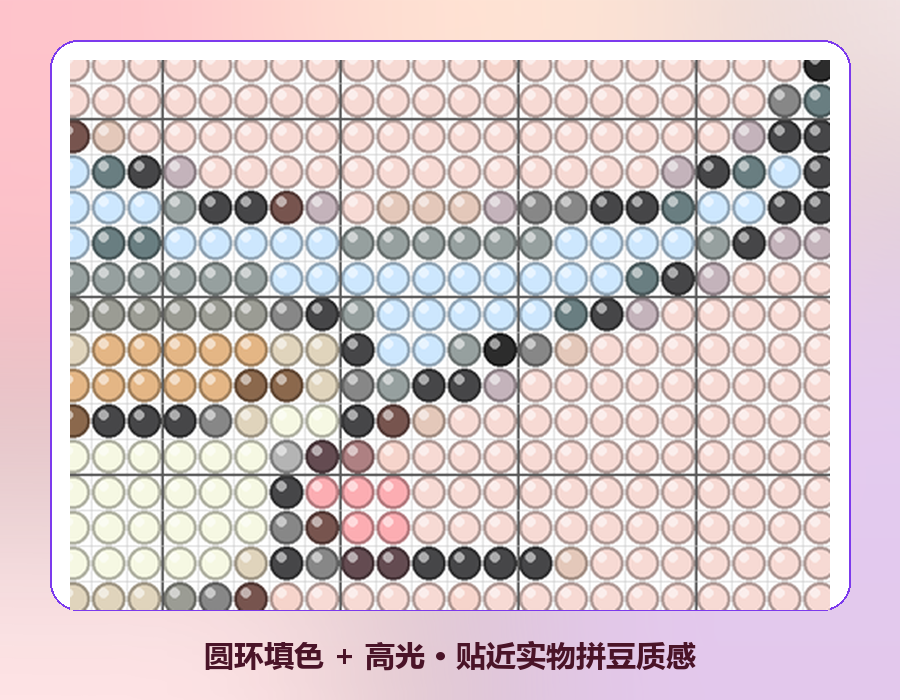
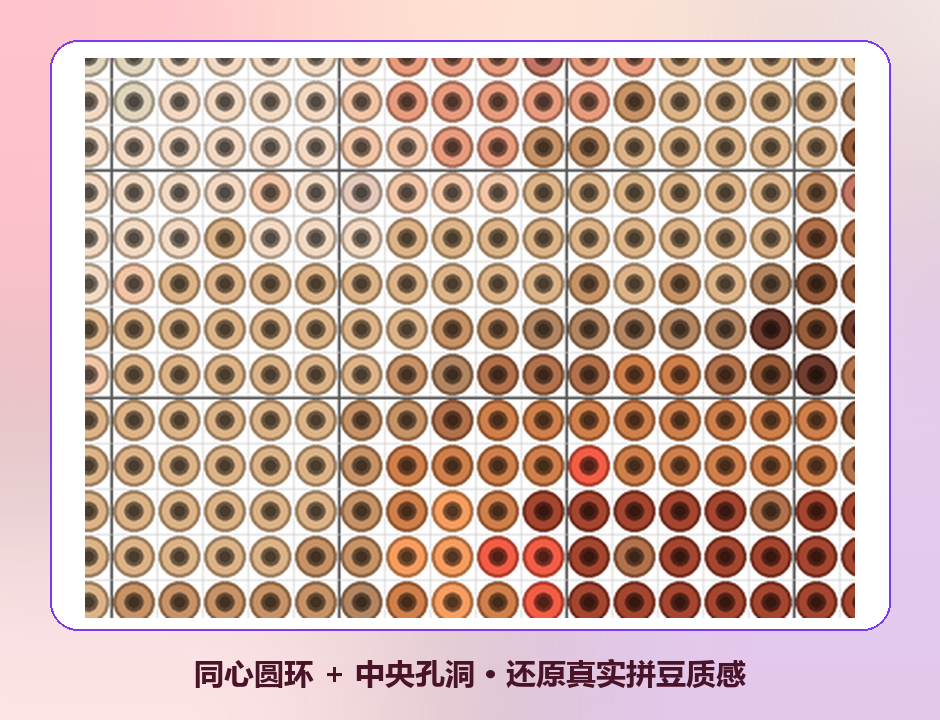
fix: 真实豆子改为同心圆环+中央孔洞，修正手机整屏渲染圆角
- 真实豆子风格由「围棋样实心圆+左上高光」改为「同心圆环+中央孔洞」，
  还原拼豆材料中央穿孔质感（外圈压暗描边 + 豆体圆环 + 孔洞内阴影），
  桌面 _draw_bead 与移动 _drawBead 双端同步重写
- README 渲染图改用给定盐津布虾素材重新生成；手机整屏合成图屏幕圆角
  改为与外框圆角平行同心（scr_R = body_R - bezel），屏幕不再顶到边缘
- 统一文案：README/CHANGELOG/index.html tooltip/state 注释中
  「圆环填色+高光」→「同心圆环+中央孔洞」

diff --git a/perler_app/lib/ui/canvas/chart_painter.dart b/perler_app/lib/ui/canvas/chart_painter.dart
@@ -14,8 +14,8 @@ class ChartPainter {
   static const double _maskFade = 0.70; // 对应桌面 MASK_FADE
   static const int _majorEvery = 5;
 
-  /// 画一颗豆子（对应桌面 _draw_bead）。real=圆环填色的真实拼豆（外圈描边+
-  /// 内圆+左上高光）；square=经典实心方格。
+  /// 画一颗豆子（对应桌面 _draw_bead）。real=真实拼豆（同心圆环 + 中央孔洞，
+  /// 还原材料穿孔）；square=经典实心方格。
   static void _drawBead(Canvas canvas, double x1, double y1, double cell,
       Color rgb, String style) {
     if (style != 'real') {
@@ -24,17 +24,18 @@ class ChartPainter {
     }
     final cx = x1 + cell / 2, cy = y1 + cell / 2;
     final r = cell * 0.46;
-    // 外圈描边（压暗一档）做立体边缘
-    final edge = Color.fromARGB(255, (rgb.red * 0.72).round(),
-        (rgb.green * 0.72).round(), (rgb.blue * 0.72).round());
-    canvas.drawCircle(Offset(cx, cy), r, Paint()..color = edge);
-    // 内圆填豆色
+    Color scale(double f) => Color.fromARGB(255, (rgb.red * f).round(),
+        (rgb.green * f).round(), (rgb.blue * f).round());
+    // 1) 外圈描边（压暗一档）做立体边缘
+    canvas.drawCircle(Offset(cx, cy), r, Paint()..color = scale(0.72));
+    // 2) 豆体圆环：向内一圈填豆色（外缘到孔洞之间的环带）
     canvas.drawCircle(Offset(cx, cy), r * 0.82, Paint()..color = rgb);
-    // 左上半透明白高光（向白混 55% 近似半透明）；cell 够大才画
+    // 3) 中央孔洞：拼豆材料的穿孔，压暗作内阴影
+    final hr = r * 0.42;
+    canvas.drawCircle(Offset(cx, cy), hr, Paint()..color = scale(0.50));
+    // 4) 孔洞内壁一圈更浅的过渡，让孔洞有纵深感（cell 够大才画）
     if (cell >= 8) {
-      final hl = Color.lerp(rgb, const Color(0xFFFFFFFF), 0.55)!;
-      canvas.drawCircle(Offset(cx - r * 0.32, cy - r * 0.36), r * 0.30,
-          Paint()..color = hl);
+      canvas.drawCircle(Offset(cx, cy), hr * 0.62, Paint()..color = scale(0.34));
     }
   }
 
@@ -57,7 +58,7 @@ class ChartPainter {
     String? brand,          // 品牌标签（左上角信息行）
     int colorCount = 0,     // 用到的颜色数
     int totalBeads = 0,     // 总豆数
-    String beadStyle = 'real', // real=真实豆子(圆环填色) | square=经典方格
+    String beadStyle = 'real', // real=真实豆子(同心圆环+中央孔洞) | square=经典方格
   }) {
     final codeToColor = {for (final c in palette.colors) c.code: c};
     Color codeRgb(String code, int fallback) {

diff --git a/src/webapp/static/index.html b/src/webapp/static/index.html
@@ -121,8 +121,8 @@
               </select>
             </div>
             <div class="num-row"><label>豆子风格</label>
-              <select class="sel" id="beadStyle" data-tip="图纸豆子的绘制风格：真实豆子=圆环填色+高光，贴近实物拼豆质感（默认，豆内不印色号，色号/数量在下方 BOM）；经典方格=实心方格+每格印色号。">
-                <option value="real" selected data-tip="圆环填色+高光的真实拼豆质感，色号在下方 BOM 区（默认）">真实豆子</option>
+              <select class="sel" id="beadStyle" data-tip="图纸豆子的绘制风格：真实豆子=同心圆环+中央孔洞，还原拼豆材料穿孔质感（默认，豆内不印色号，色号/数量在下方 BOM）；经典方格=实心方格+每格印色号。">
+                <option value="real" selected data-tip="同心圆环+中央孔洞的真实拼豆质感，色号在下方 BOM 区（默认）">真实豆子</option>
                 <option value="square" data-tip="实心方格，每格印色号">经典方格</option>
               </select>
             </div>

diff --git a/perler_app/lib/state/app_state.dart b/perler_app/lib/state/app_state.dart
@@ -125,7 +125,7 @@ final showChartTitleProvider = StateProvider<bool>((_) => false);
 /// 导出页文件名输入框当前值（图纸标题来源；默认跟随源图）。
 final exportNameProvider = StateProvider<String>((_) => 'pattern');
 
-/// 图纸豆子风格：'real'=真实豆子(圆环填色) | 'square'=经典方格（默认 real）。
+/// 图纸豆子风格：'real'=真实豆子(同心圆环+中央孔洞) | 'square'=经典方格（默认 real）。
 final beadStyleProvider = StateProvider<String>((_) => 'real');
 
 /// 由文件名推标题：去路径去扩展名，占位名返回 null。

diff --git a/src/core/pattern_generator.py b/src/core/pattern_generator.py
@@ -46,30 +46,32 @@ def _bead_edge(rgb):
     return tuple(max(0, int(c * 0.72)) for c in rgb)
 
 
+def _bead_hole(rgb):
+    """真实拼豆中央孔洞色：豆色大幅压暗，模拟穿孔内的阴影。"""
+    return tuple(max(0, int(c * 0.50)) for c in rgb)
+
+
 def _draw_bead(draw, x1, y1, cell, rgb, style):
-    """画一颗豆子。style='real' 画圆环填色的真实拼豆（外圈描边+内圆+左上高光）；
+    """画一颗豆子。style='real' 画真实拼豆（同心圆环 + 中央孔洞，还原材料穿孔）；
     'square' 画经典实心方格。"""
     if style != 'real':
         draw.rectangle([x1, y1, x1 + cell, y1 + cell], fill=rgb)
         return
     cx, cy = x1 + cell / 2.0, y1 + cell / 2.0
     r = cell * 0.46                       # 外径 ≈ 0.92 cell
-    # 外圈描边（压暗一档）做立体边缘
+    # 1) 外圈描边（压暗一档）做立体边缘
     draw.ellipse([cx - r, cy - r, cx + r, cy + r], fill=_bead_edge(rgb))
-    # 内圆填豆色
+    # 2) 豆体圆环：向内一圈填豆色（外缘到孔洞之间的环带）
     ri = r * 0.82
     draw.ellipse([cx - ri, cy - ri, cx + ri, cy + ri], fill=rgb)
-    # 左上半透明白高光（珠子反光质感）；cell 够大才画，避免小格糊成一团
+    # 3) 中央孔洞：拼豆材料的穿孔，压暗作内阴影
+    hr = r * 0.42
+    draw.ellipse([cx - hr, cy - hr, cx + hr, cy + hr], fill=_bead_hole(rgb))
+    # 4) 孔洞内壁一圈更浅的过渡，让孔洞有纵深感（cell 够大才画）
     if cell >= 8:
-        hr = r * 0.30
-        hx, hy = cx - r * 0.32, cy - r * 0.36
-        draw.ellipse([hx - hr, hy - hr, hx + hr, hy + hr],
-                     fill=_blend_white(rgb, 0.55))
-
-
-def _blend_white(rgb, t):
-    """向白色混入 t（0..1），用于高光近似半透明效果。"""
-    return tuple(min(255, int(round(c + (255 - c) * t))) for c in rgb)
+        hr2 = hr * 0.62
+        draw.ellipse([cx - hr2, cy - hr2, cx + hr2, cy + hr2],
+                     fill=tuple(max(0, int(c * 0.34)) for c in rgb))
 
 
 @dataclass

diff --git a/src/webapp/state.py b/src/webapp/state.py
@@ -61,7 +61,7 @@ class AppState:
         # skinOpacity 亮暗共用单一不透明度；skinBlur 模糊档 0=无/1=中/2=高）
         "skinImage": "", "skinColor": "", "skinAccent": "",
         "skinOpacity": 0.15, "skinBlur": 1,
-        # 图纸豆子风格：real=真实豆子(圆环填色) | square=经典方格
+        # 图纸豆子风格：real=真实豆子(同心圆环+中央孔洞) | square=经典方格
         "beadStyle": "real",
     }
 

diff --git a/README.md b/README.md
@@ -28,7 +28,7 @@
 
 ## 效果一览
 
-从一张照片到一张可直接对照拼的真实豆子图纸，附带完整物料清单（BOM）。**真实豆子风格**用圆环填色 + 高光还原实物拼豆立体质感，色号与数量统一放在图纸主体之外的 BOM 区，干净易读。
+从一张照片到一张可直接对照拼的真实豆子图纸，附带完整物料清单（BOM）。**真实豆子风格**用同心圆环 + 中央孔洞还原实物拼豆的穿孔质感，色号与数量统一放在图纸主体之外的 BOM 区，干净易读。
 
 <div align="center">
 <img src=".github/assets/compare.png" width="880" alt="原图 → 真实豆子图纸">
@@ -84,7 +84,7 @@
   - **5 品牌颜色库**：MARD 曼德(221) / Perler / Hama / Artkal S-5mm / Artkal C-2.6mm
   - 多种色差算法（CIEDE2000 默认 / CIE76 / Lab / 欧氏 / 加权）
   - 抖动、高阶优化(ICM) 减少噪点与色偏
-  - **豆子风格**：真实豆子（圆环填色 + 高光，默认）/ 经典方格（每格印色号），可一键切换
+  - **豆子风格**：真实豆子（同心圆环 + 中央孔洞，默认）/ 经典方格（每格印色号），可一键切换
   - 图纸标题、物料清单 BOM（色号 / 名称 / 数量 / 百分比）
 
 - **导出 PNG**
@@ -126,7 +126,7 @@
 - **颜色上限**：0 = 不限制；> 0 = 最多用 N 种颜色（越少越省豆、越易拼）
 - **细节保留**：值越大越能保住图像小细节与边缘
 - **颜色度量**：拟合豆色的色差算法，CIEDE2000 最接近人眼感知（默认）
-- **豆子风格**：真实豆子（圆环 + 高光，贴近实物）/ 经典方格（每格印色号）
+- **豆子风格**：真实豆子（同心圆环 + 中央孔洞，贴近实物）/ 经典方格（每格印色号）
 - **抖动**：相邻豆交错模拟过渡色
 - **高阶优化(ICM)**：迭代微调减少局部色偏与孤岛噪点
 - **PNG 缩放**：导出图的缩放倍数（越大越清晰、文件越大）

diff --git a/CHANGELOG.md b/CHANGELOG.md
@@ -9,11 +9,11 @@
 ### 新增
 
 - **真实豆子图纸风格（双端）**：图纸豆子可选「真实豆子 / 经典方格」两种渲染风格。
-  真实豆子用圆环填色（外圈压暗描边 + 内圆填色 + 左上高光）还原实物拼豆立体质感，
-  豆内不印色号，色号与数量统一放在图纸主体外的 BOM 区；经典方格保留原实心方格 +
-  每格印色号。两端默认真实豆子，可一键切换并持久化（桌面 `beadStyle` 设置项 /
-  移动端导出面板 CandyChips）。桌面 `render_standard_chart` 与移动 `ChartPainter.render`
-  共用同一套绘制规则，预览与导出一致
+  真实豆子用同心圆环 + 中央孔洞（外圈压暗描边 + 豆体圆环 + 孔洞内阴影）还原拼豆
+  材料中央穿孔质感，豆内不印色号，色号与数量统一放在图纸主体外的 BOM 区；经典
+  方格保留原实心方格 + 每格印色号。两端默认真实豆子，可一键切换并持久化（桌面
+  `beadStyle` 设置项 / 移动端导出面板 CandyChips）。桌面 `render_standard_chart`
+  与移动 `ChartPainter.render` 共用同一套绘制规则，预览与导出一致
 - **自定义主题（原背景皮肤）**：导入图片作半透明背景，自动提取主体颜色并适配整套
   主题色（含深色卡片边缘，消灭紫红边）；新增背景模糊三档吸附滑块（无 / 中 / 高，
   两种高斯核），不透明度合并为亮暗共用单一值，多次导入即时刷新背景与缩略图
